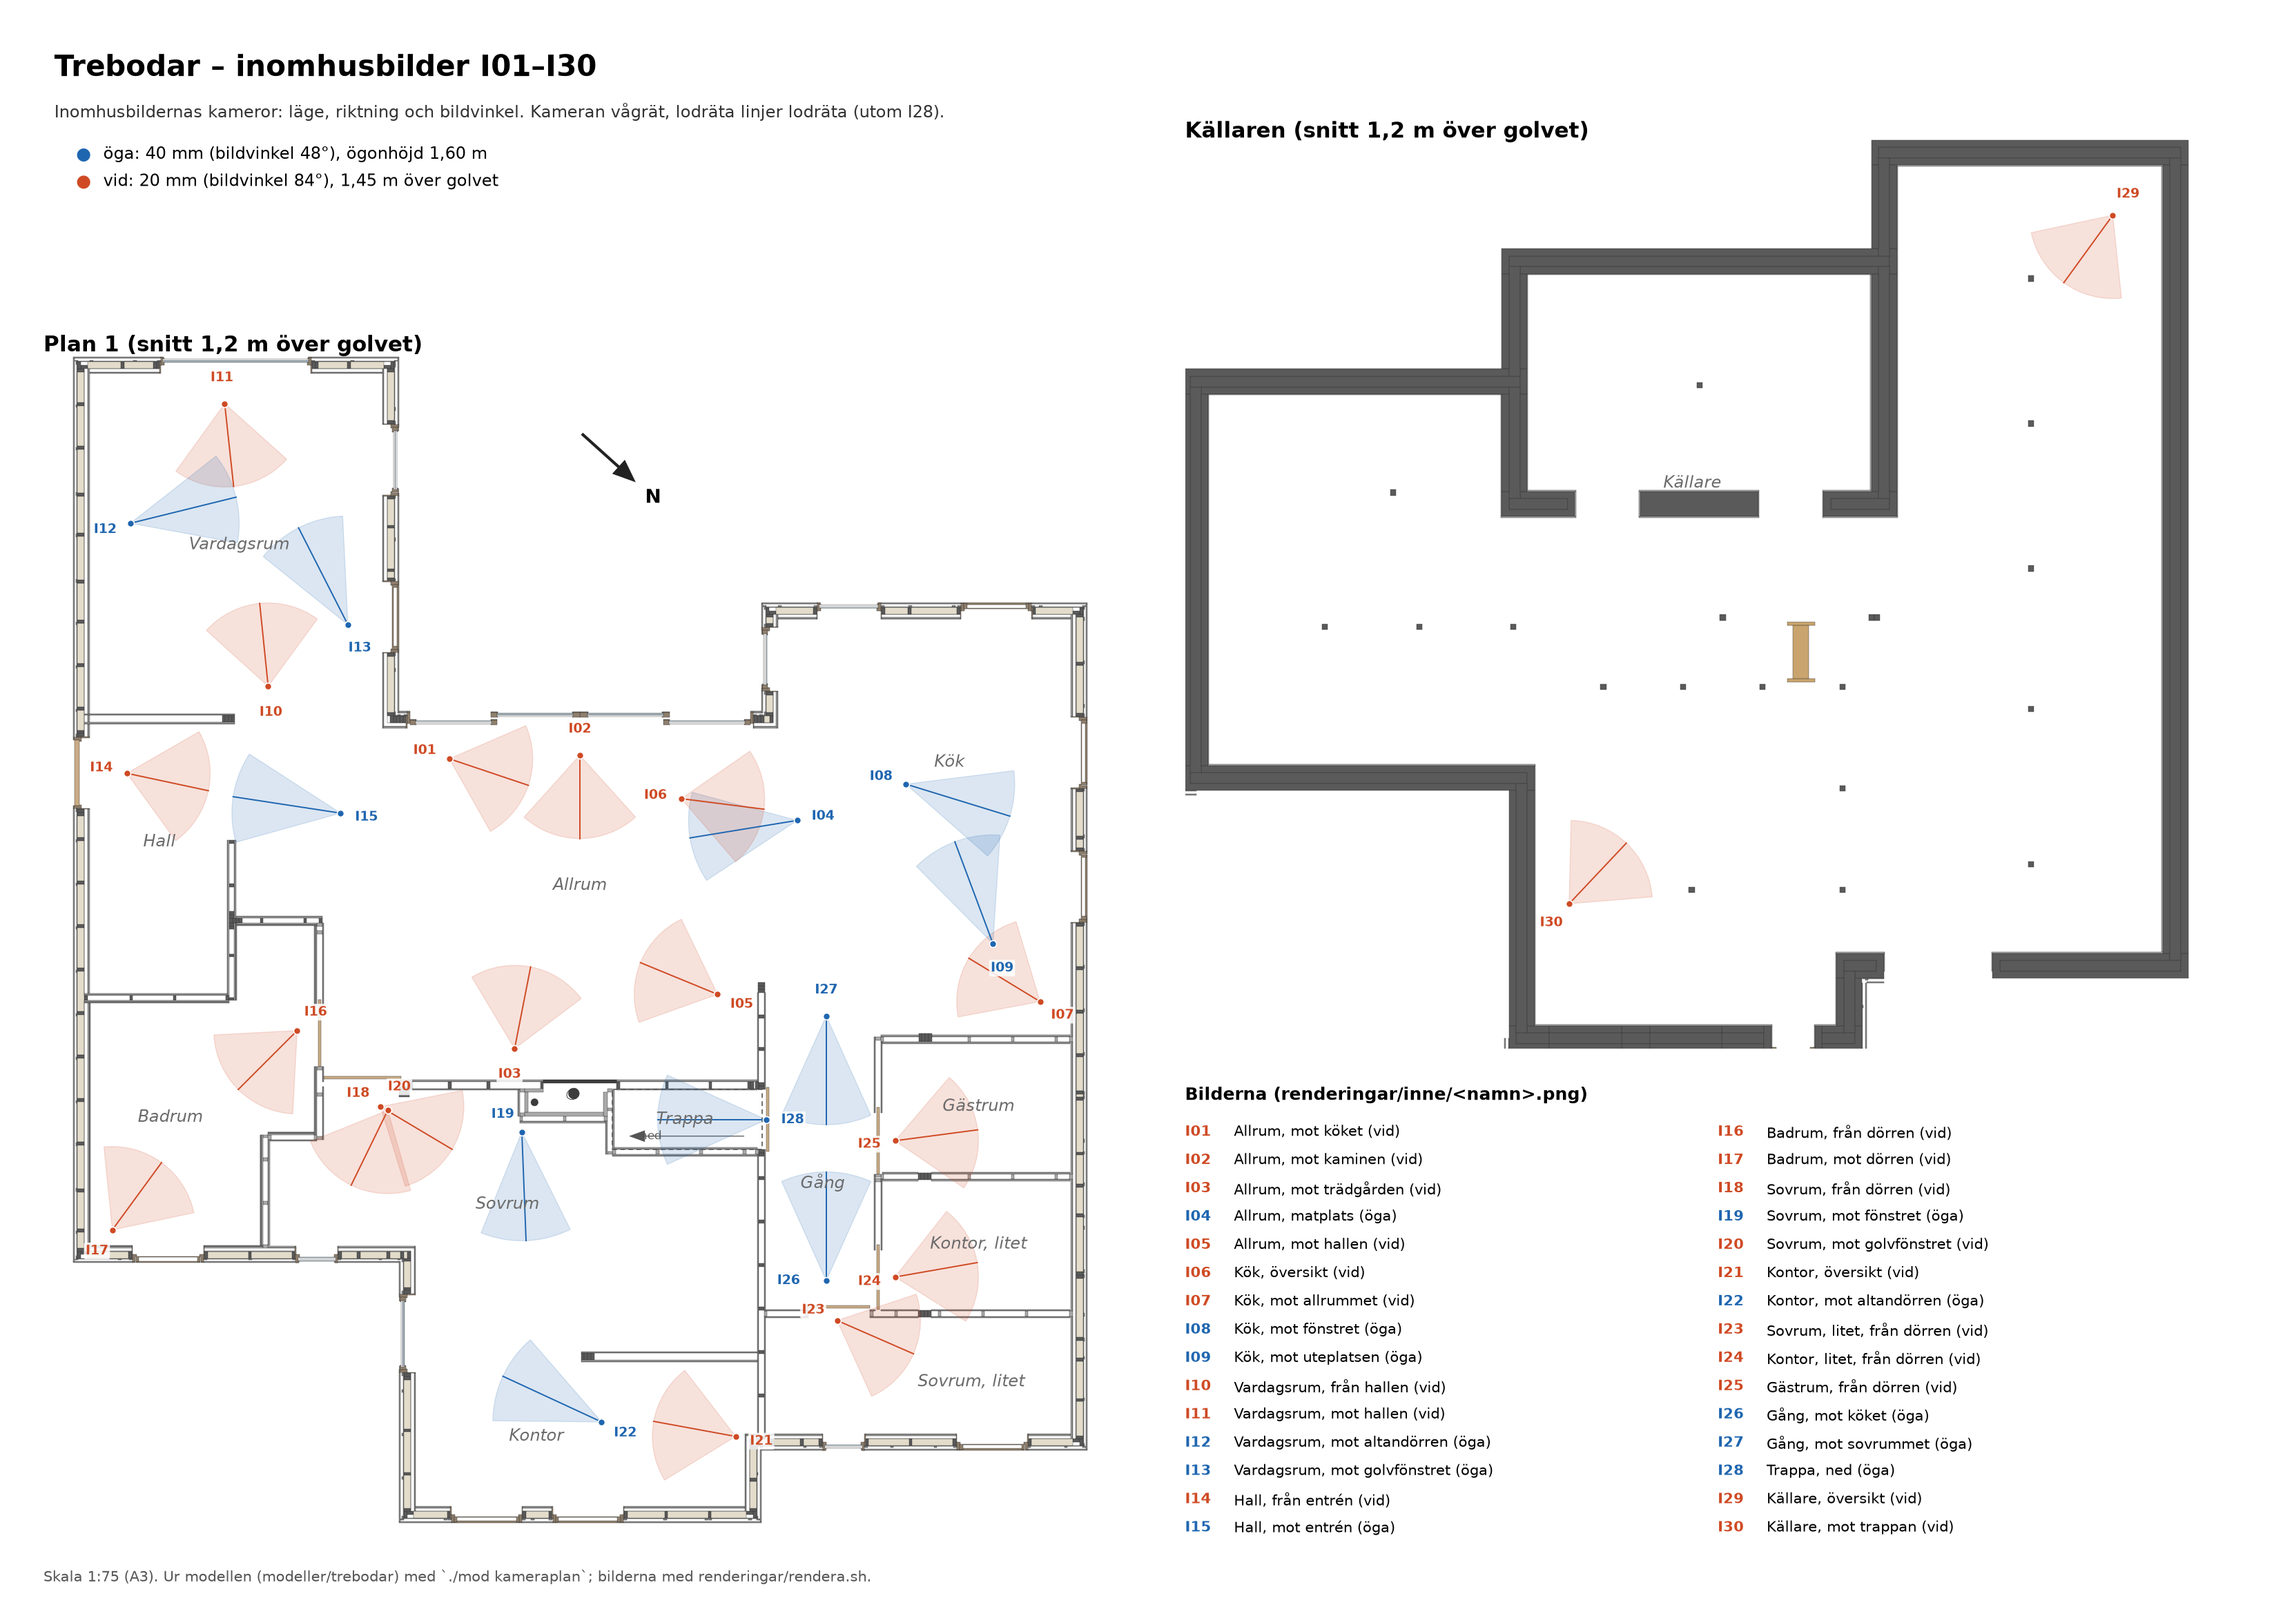
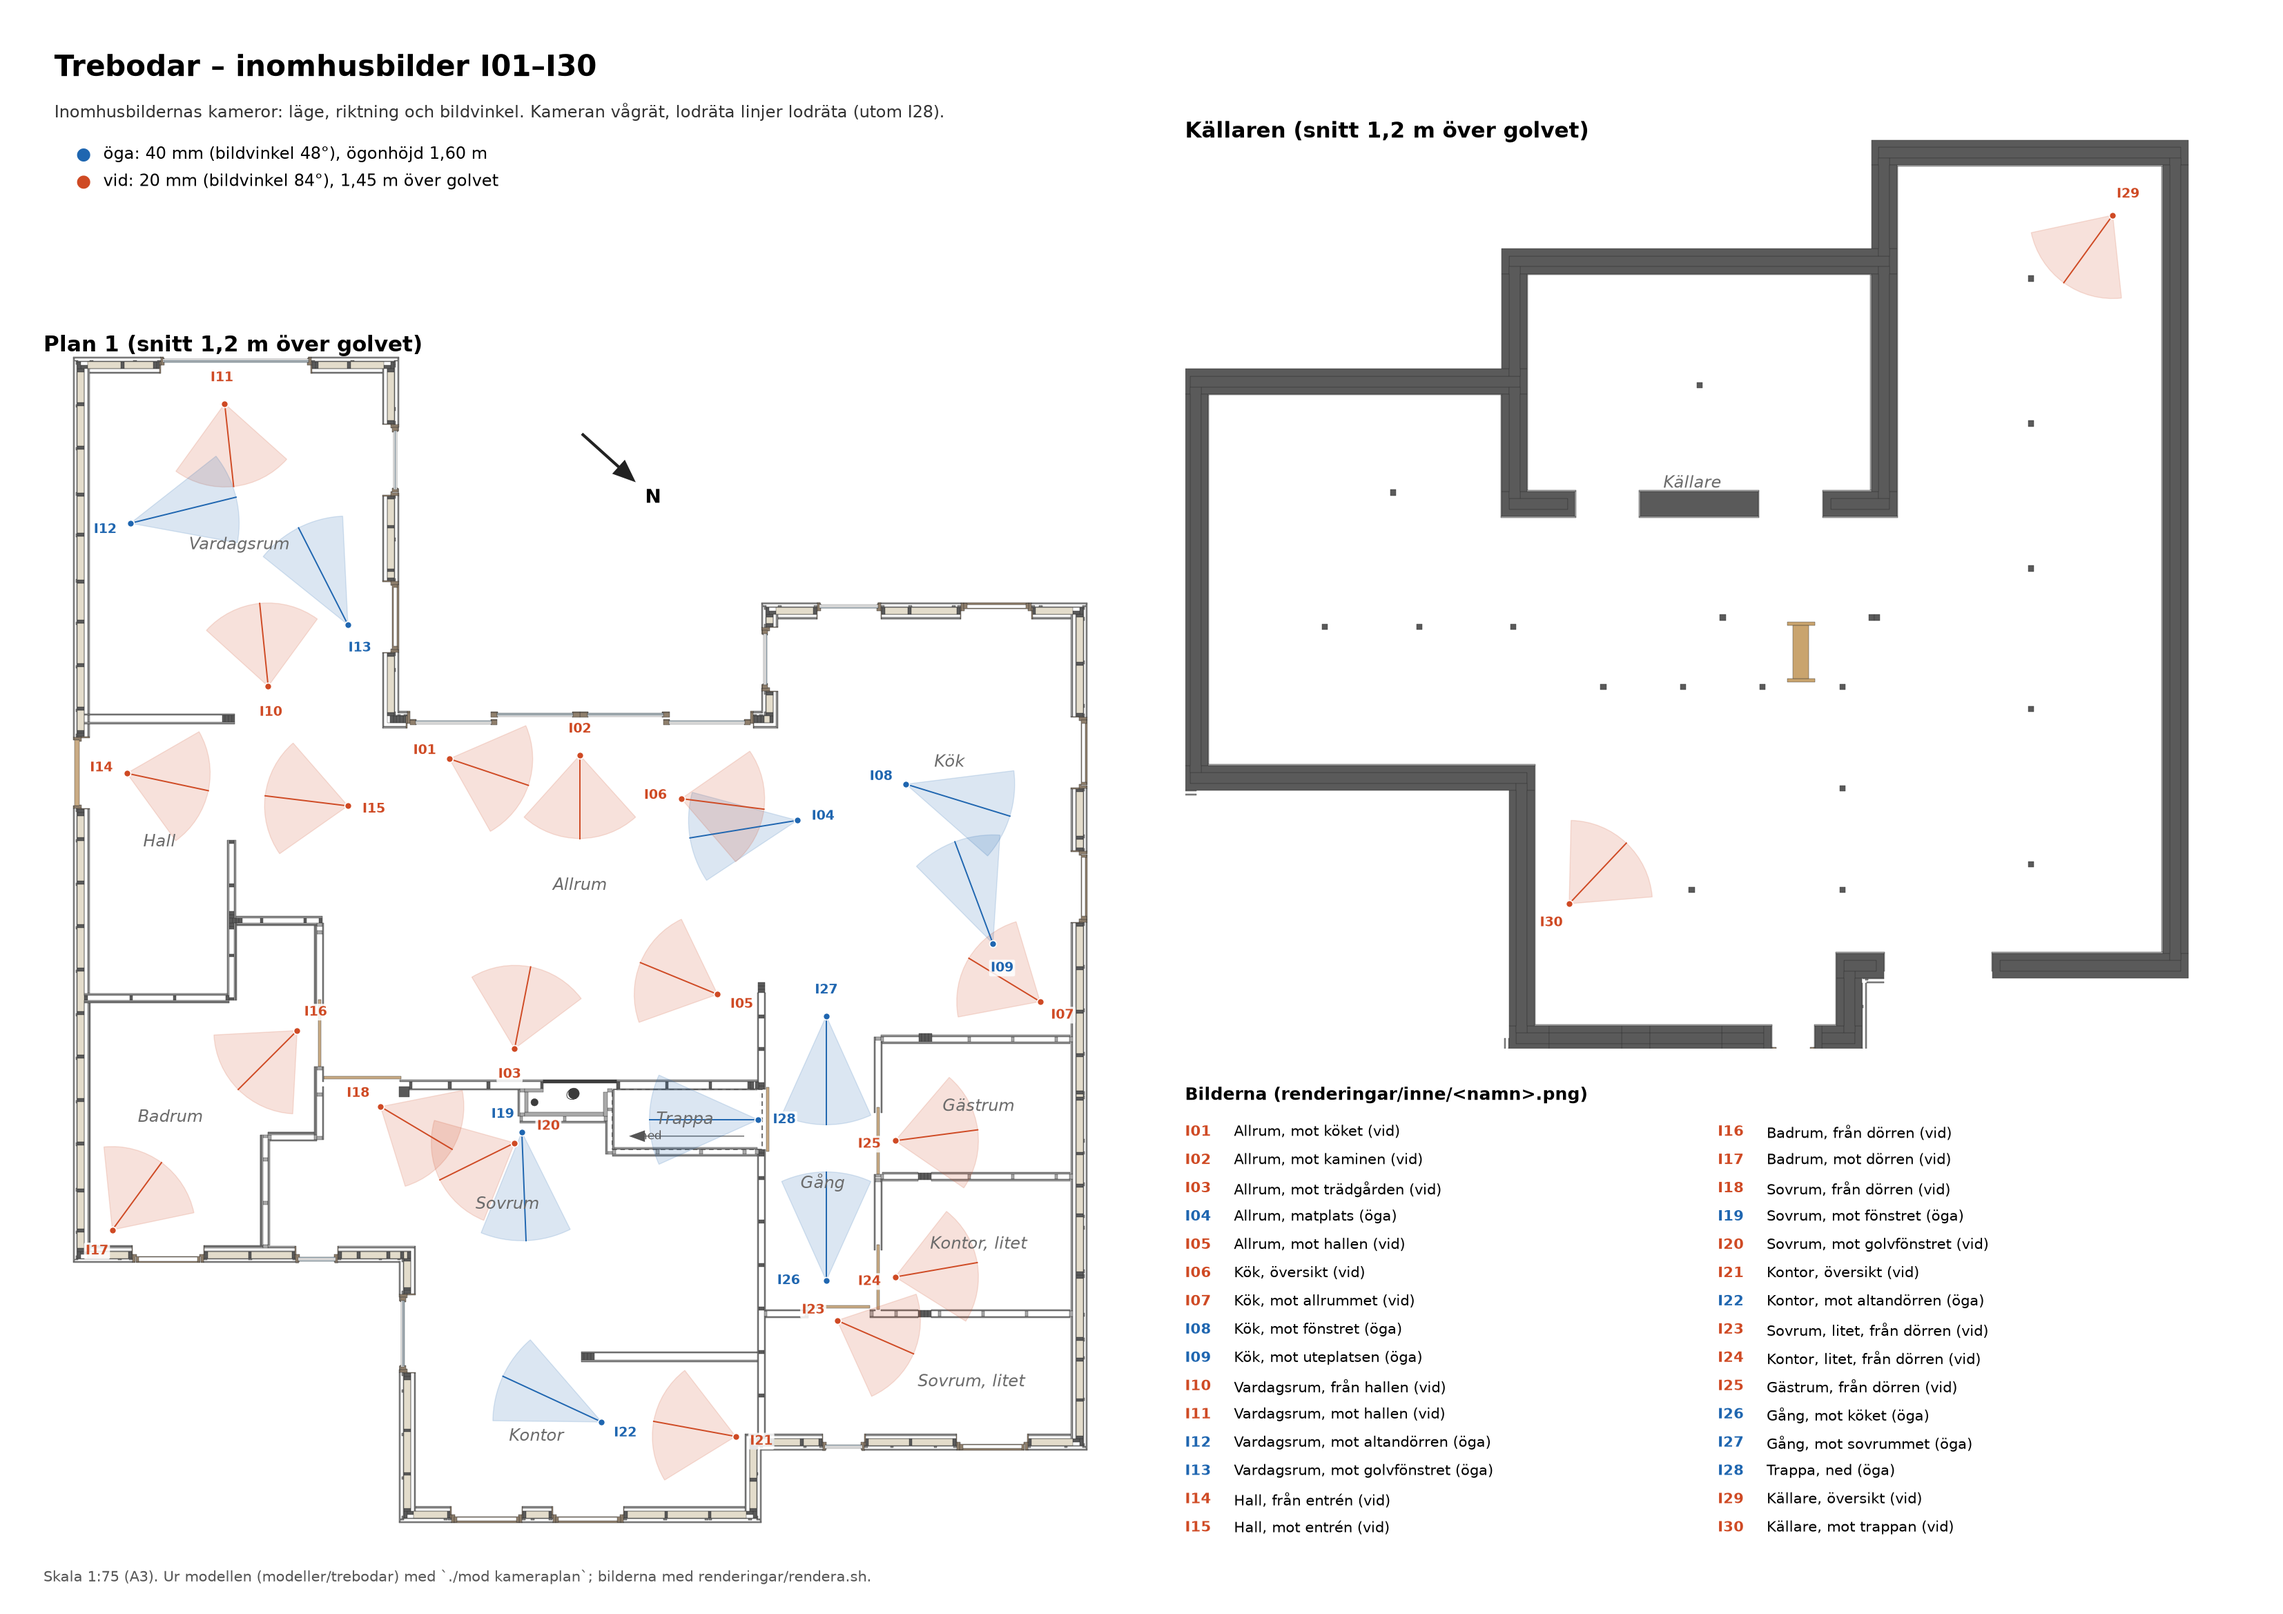
Rendering: källarens taklampor, kamerorna I15, I20 och I28
- taklampor (LED-paneler, LAMPOR i vyer.py) som tänds i vyerna som anger dem: källaren (I28–I30), där de små
  fönstren ger så lite ljus att brusreduceringen smetade ut bruset till fläckar
- I28 utanför skjutdörrens blad, I15 med vidvinkel och I20 längre in i sovrummet (glasdörren och golvfönstret)
- dagsljus.svartkropp: lampans färg ur färgtemperaturen

Changed region(s): [[0.1246, 0.6869, 0.2492, 0.7494], [0.0934, 0.4683, 0.1557, 0.5308], [0.2803, 0.6557, 0.3115, 0.7181]]

diff --git a/modeller/trebodar/vyer.py b/modeller/trebodar/vyer.py
@@ -60,12 +60,12 @@ _INNE = [
     ("I12", "vardagsrum", "mot-altandorr", "öga", (700, 13700), (4245, 14575, 1150)),
     ("I13", "vardagsrum", "mot-golvfonster", "öga", (3700, 12300), (1900, 15835, 1100)),
     ("I14", "hall", "fran-entre", "vid", (650, 10250), (6500, 9000, 1350)),
-    ("I15", "hall", "mot-entre", "öga", (3600, 9700), (-30, 10255, 1100)),
+    ("I15", "hall", "mot-entre", "vid", (3700, 9800), (-30, 10255, 1150)),
     ("I16", "badrum", "fran-dorr", "vid", (3000, 6700), (700, 4400, 1200)),
     ("I17", "badrum", "mot-dorr", "vid", (450, 3950), (2900, 7300, 1300)),
     ("I18", "sovrum", "fran-dorr", "vid", (4150, 5650), (8600, 3000, 1300)),
     ("I19", "sovrum", "mot-fonster", "öga", (6100, 5300), (6300, 135, 1500)),
-    ("I20", "sovrum", "mot-golvfonster", "vid", (4250, 5600), (3300, 3655, 1050)),
+    ("I20", "sovrum", "mot-golvfonster", "vid", (6000, 5150), (3270, 3800, 1000)),
     ("I21", "kontor", "oversikt", "vid", (9050, 1100), (4700, 1900, 1300)),
     ("I22", "kontor", "mot-altandorr", "öga", (7200, 1300), (4565, 2520, 1150)),
     ("I23", "sovrum-litet", "fran-dorr", "vid", (10450, 2700), (13200, 1500, 1200)),
@@ -73,13 +73,15 @@ _INNE = [
     ("I25", "gastrum", "fran-dorr", "vid", (11250, 5180), (13675, 5500, 1300)),
     ("I26", "gang", "mot-kok", "öga", (10300, 3250), (10300, 9500, 1300)),
     ("I27", "gang", "mot-sovrum", "öga", (10300, 6900), (10300, 2905, 1300)),
-    ("I28", "trappa", "ned", "öga", (9475, 5470), (7700, 5470, -1500)),
+    ("I28", "trappa", "ned", "öga", (9360, 5470), (7700, 5470, -1500)),
     ("I29", "kallare", "oversikt", "vid", (12800, 11500, Z_KALLARE), (7000, 3500, Z_KALLARE + 1200)),
     ("I30", "kallare", "mot-trappan", "vid", (5300, 2000, Z_KALLARE), (8600, 5500, Z_KALLARE + 900)),
 ]
 
-# inomhusbilder med egna inställningar: trappan ned med lutande kamera (lodräta linjer konvergerar)
-_INNE_EXTRA: dict[str, dict[str, object]] = {"I28": {"lodrat": False}}
+# inomhusbilder med egna inställningar: trappan ned med lutande kamera (lodräta linjer konvergerar), källarens
+# taklampor tända
+_INNE_EXTRA: dict[str, dict[str, object]] = {"I28": {"lodrat": False, "lampor": ["kallare"]},
+                                             "I29": {"lampor": ["kallare"]}, "I30": {"lampor": ["kallare"]}}
 
 
 def _inne() -> dict[str, dict[str, object]]:
@@ -102,6 +104,16 @@ RUMSNAMN = {
     "kontor": ("Kontor", (6300, 1100)), "sovrum-litet": ("Sovrum, litet", (12300, 1850)),
     "kontor-litet": ("Kontor, litet", (12400, 3750)), "gastrum": ("Gästrum", (12400, 5650)),
     "gang": ("Gång", (10250, 4600)), "trappa": ("Trappa", (8350, 5470)), "kallare": ("Källare", (7000, 7800, "k")),
+}
+
+# taklampor (LED-paneler, fyrkantiga och nedåtlysande) som tänds i bilderna som anger dem: källaren är mörk med
+# sina små fönster. Lägena (x, y), höjden z under bjälklaget, sidan [mm], ljusflödet per panel [lm] och
+# färgtemperaturen [K]
+LAMPOR = {
+    "kallare": {"lagen": [(1500, 5200), (3300, 5200), (1500, 7700), (3300, 7700), (5800, 1800), (8200, 1800),
+                          (5800, 4200), (8200, 4200), (5800, 6400), (5800, 9300), (8200, 9300), (11600, 2600),
+                          (11600, 5600), (11600, 8600), (11600, 11000)],
+                "z": -S.H_BJALKLAG - 20.0, "sida": 600.0, "lumen": 2500.0, "kelvin": 3000.0},
 }
 
 # marken runt modellens terräng (renderingen): från terrängens kant till omgivningens höjder (geodata, annars z_bas)

diff --git a/verktyg/modellering/blender/rendera.py b/verktyg/modellering/blender/rendera.py
@@ -4,8 +4,9 @@ himlen och solen efter dagsljuset, ljusportalerna i fönstren och en kamera per 
     Blender -b --factory-startup -P rendera.py -- scen.json
 
 scen.json (från `mod rendera`): {"glb": fil, "ut": mapp, "kvalitet": "skiss" … "slutlig", "bredd": px eller null,
-"hojd_m": platsens höjd, "portaler": [...], "material": {namn: parametrar}, "vyer": {namn: vy}, "blend": fil eller
-null}; vy: "kamera" och "mal" [x, y, z] i mm, "lins" (mm), "lodrat" (vågrät kamera), "inne", "ljus" (dagsljus.Ljus),
+"hojd_m": platsens höjd, "portaler": [...], "lampor": {grupp: lampor}, "material": {namn: parametrar}, "vyer": {namn:
+vy}, "blend": fil eller null}; vy: "kamera" och "mal" [x, y, z] i mm, "lins" (mm), "lodrat" (vågrät kamera), "inne",
+"lampor" (grupperna som är tända), "ljus" (dagsljus.Ljus),
 "ev" (EV100 eller null: automatisk), "vitbalans" (K; standard ute efter dagsljusets färgtemperatur och inne
 automatisk, som ögats anpassning), "dolj" (delar av sökvägar).
 """
@@ -40,6 +41,7 @@ if SCEN.get("omgivning"):
     omgivning.bygg((o["mitt"][0] / 1000, o["mitt"][1] / 1000), o["z_bas"] / 1000, o.get("terrang", "Mark/"),
                    SCEN.get("geodata"))
 portaler = [o for o in bpy.data.objects if o.name.startswith("Portal ")]
+lampor = S.lampor(SCEN.get("lampor", {}))
 
 
 def stall_in(namn: str, vy: dict) -> None:
@@ -49,6 +51,9 @@ def stall_in(namn: str, vy: dict) -> None:
             o.hide_render = any(d in sok for d in vy.get("dolj", []))
     for o in portaler:
         o.hide_render = not vy.get("inne", False)
+    for grupp, obs in lampor.items():
+        for o in obs:
+            o.hide_render = grupp not in vy.get("lampor", [])
     himmel.stall_in(vy["ljus"], SCEN.get("hojd_m", 0.0))
     S.vitbalans(sc, vy.get("vitbalans") or S.dagsljusets_vitbalans(vy["ljus"]))
     sc.camera = S.kamera(namn, vy)

diff --git a/verktyg/modellering/blender/scen.py b/verktyg/modellering/blender/scen.py
@@ -300,6 +300,27 @@ def portaler(lista: list[dict]) -> None:
         ob.rotation_euler = Matrix((y.cross(z), y, z)).transposed().to_euler()
 
 
+def lampor(grupper: dict[str, dict]) -> dict[str, list[bpy.types.Object]]:
+    """Taklampor per grupp (modellens mm): fyrkantiga arealjus som lyser nedåt, med ljusflödet (lm / 683 som solen och
+    himlen) och färgen; släckta tills en vy tänder sin grupp."""
+    ut: dict[str, list[bpy.types.Object]] = {}
+    for grupp, g in grupper.items():
+        ut[grupp] = []
+        for i, (x, y) in enumerate(g["lagen"]):
+            namn = f"Lampa {grupp} {i + 1:02d}"
+            lj = bpy.data.lights.new(namn, "AREA")
+            lj.shape = "SQUARE"
+            lj.size = g["sida"] / 1000
+            lj.energy = g["lumen"] / LUMEN_PER_WATT
+            lj.color = tuple(g["farg"])
+            ob = bpy.data.objects.new(namn, lj)
+            bpy.context.scene.collection.objects.link(ob)
+            ob.location = (x / 1000, y / 1000, g["z"] / 1000)          # arealjuset lyser längs −Z, nedåt
+            ob.hide_render = True
+            ut[grupp].append(ob)
+    return ut
+
+
 def kamera(namn: str, vy: dict) -> bpy.types.Object:
     """Kameran: lodräta linjer lodräta (kameran vågrät, bilden flyttas upp eller ned med objektivförskjutning, som en
     arkitekturkamera), linsen i mm (36 mm sensor), eller som förut riktad mot målet (lodrat=False)."""

diff --git a/verktyg/modellering/modellering/cli.py b/verktyg/modellering/modellering/cli.py
@@ -304,6 +304,8 @@ def main(argv: list[str] | None = None) -> None:
             vyer[namn] = {**v, "ljus": dagsljus.dagsljus(int(m), int(d), k, w, plats).som_dict(), "ev": arg.ev}
         scen = {"glb": str(fil), "ut": str(arg.ut.resolve()), "kvalitet": arg.kvalitet, "bredd": arg.bredd,
                 "hojd_m": plats.hojd, "portaler": vy_mod.portaler() if hasattr(vy_mod, "portaler") else [],
+                "lampor": {k: {**g, "farg": dagsljus.svartkropp(float(g["kelvin"]))}
+                           for k, g in getattr(vy_mod, "LAMPOR", {}).items()},
                 "omgivning": getattr(vy_mod, "OMGIVNING", None),
                 "geodata": (str(ROT / vy_mod.GEODATA["mapp"]) if hasattr(vy_mod, "GEODATA")
                             and (ROT / vy_mod.GEODATA["mapp"] / "omgivning.json").exists() else None),

diff --git a/verktyg/modellering/modellering/dagsljus.py b/verktyg/modellering/modellering/dagsljus.py
@@ -207,6 +207,11 @@ def fargen(e: np.ndarray) -> tuple[tuple[float, float, float], float, float]:
     return (float(rgb[0]), float(rgb[1]), float(rgb[2])), LUMEN_PER_WATT * Y, float(cct)
 
 
+def svartkropp(kelvin: float) -> tuple[float, float, float]:
+    """Glödande kropps färg vid temperaturen (t.ex. en lampa på 3 000 K) i linjär Rec. 709 med luminansen 1."""
+    return fargen(_planck(L, kelvin))[0]
+
+
 def _luftmassa(z_grader: float) -> float:
     return 1.0 / (math.cos(math.radians(z_grader)) + 0.50572 * (96.07995 - z_grader) ** -1.6364)
 

diff --git a/verktyg/modellering/README.md b/verktyg/modellering/README.md
@@ -84,7 +84,8 @@ egen modell (t.ex. för beställning). Utdata:
   `dagsljus(månad, dag, klocka, väder)` ger solens riktning, färg och belysning och himlens färg och belysning. I
   Blender blir solen en sollampa med belysningen (lux / 683) och solskivans storlek efter vädret, och himlen skalas så
   att dess belysning på en horisontell yta och dess färg blir dagsljusets (mäts med en liten panoramarendering);
-  mulet är en CIE-himmel. Ljusportaler i fönster, glasdörrar och takfönster i inomhusbilderna. Exponeringen (EV100)
+  mulet är en CIE-himmel. Ljusportaler i fönster, glasdörrar och takfönster i inomhusbilderna, och taklampor (LED-
+  paneler, `LAMPOR` i `vyer.py`) som tänds i de vyer som anger dem, t.ex. källaren. Exponeringen (EV100)
   räknas fram ur en snabb förhandsbild; inne också vitbalansen, som ögats anpassning till rummets ljus (medelfärgen
   utan fönstren blir nästan neutral), ute efter dagsljusets färgtemperatur (solens och himlens, med en del kvar av
   kvällssolens värme). Cycles på GPU med brusreducering (OIDN),

diff --git a/renderingar/README.md b/renderingar/README.md
@@ -30,6 +30,7 @@ Dagsljuset är 20 april kl. 14.00 med sol (`INNE_LJUS` i `vyer.py`), räknat fö
 styrka och himlens ljus (`./mod ljus 4 20 14:00 sol`). Himlen lyser in genom ljusportaler i fönstren, och utanför
 syns omgivningen ur öppna geodata (`./mod omgivning --hamta`, sparas i `lokalt/omgivning/`; utan den en enkel mark).
 Exponeringen och vitbalansen räknas fram ur en snabb förhandsbild per bild, som ögats anpassning till rummets ljus.
+I källaren (I28–I30) är taklamporna tända (`LAMPOR` i `vyer.py`), eftersom de små fönstren ger för lite ljus.
 
 En bild i 4K och slutlig kvalitet (högst 512 sampel per pixel, brusreducerad) tar knappt 4 minuter att rendera på
 en Mac med Apple M5 Max (Metal), och scenen tar ungefär en minut att bygga, en gång per körning; hela serien tar
